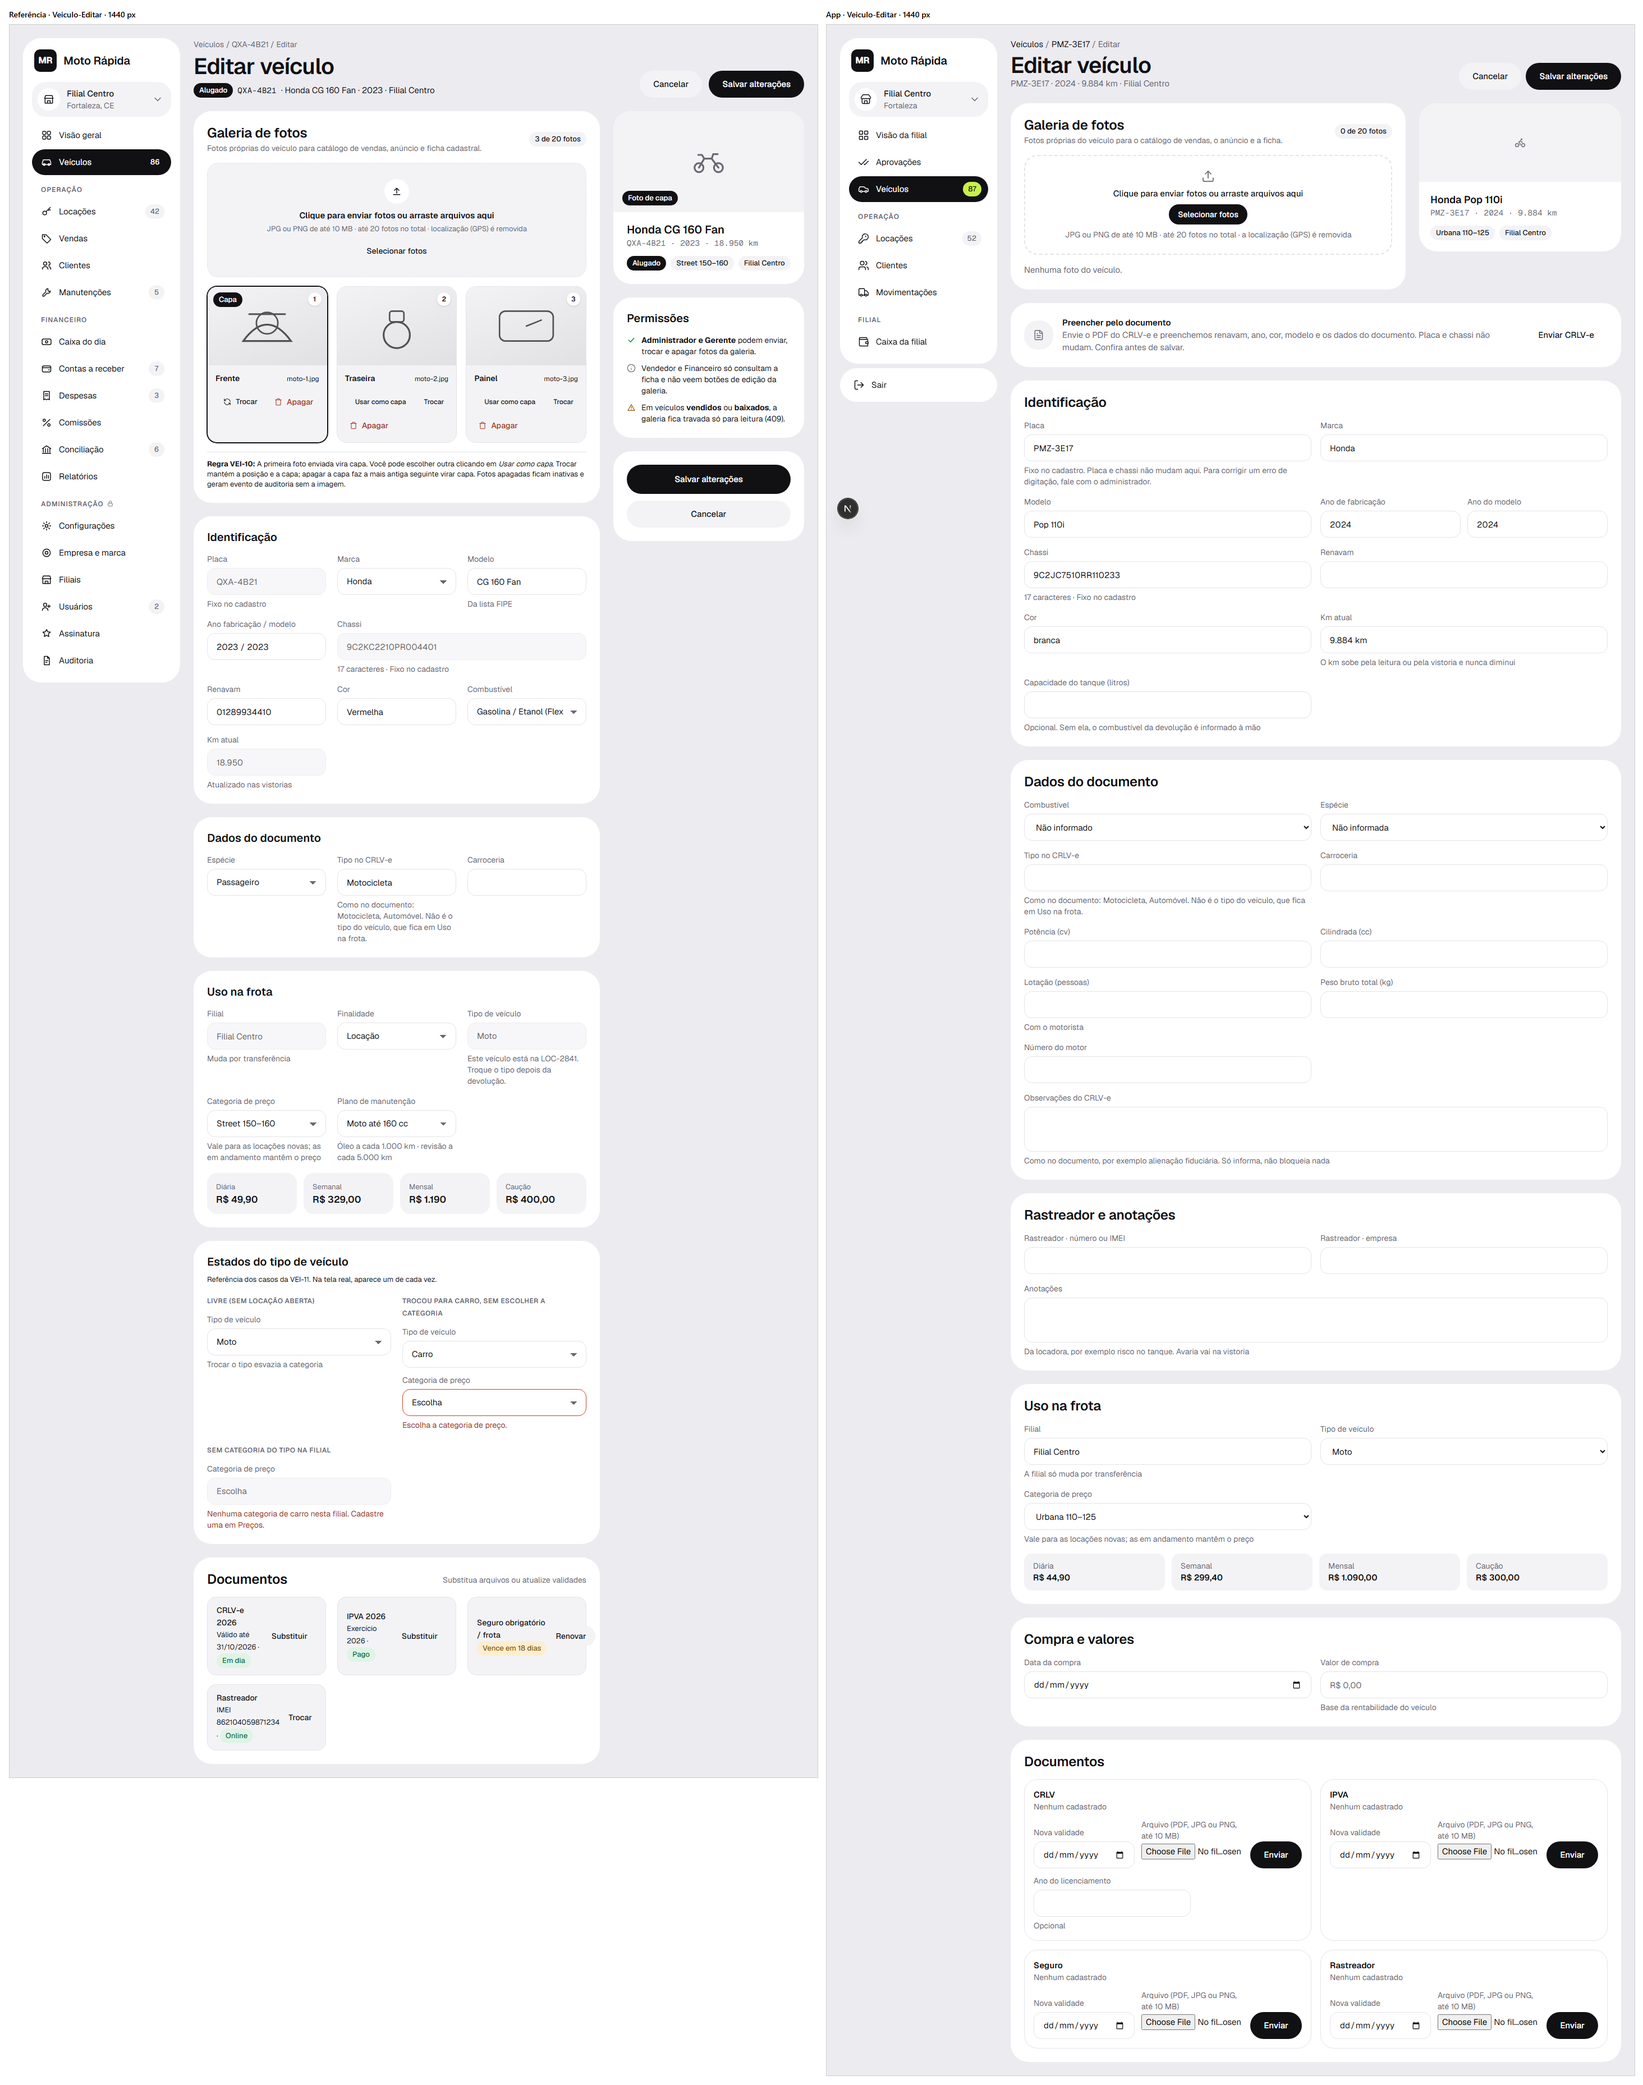
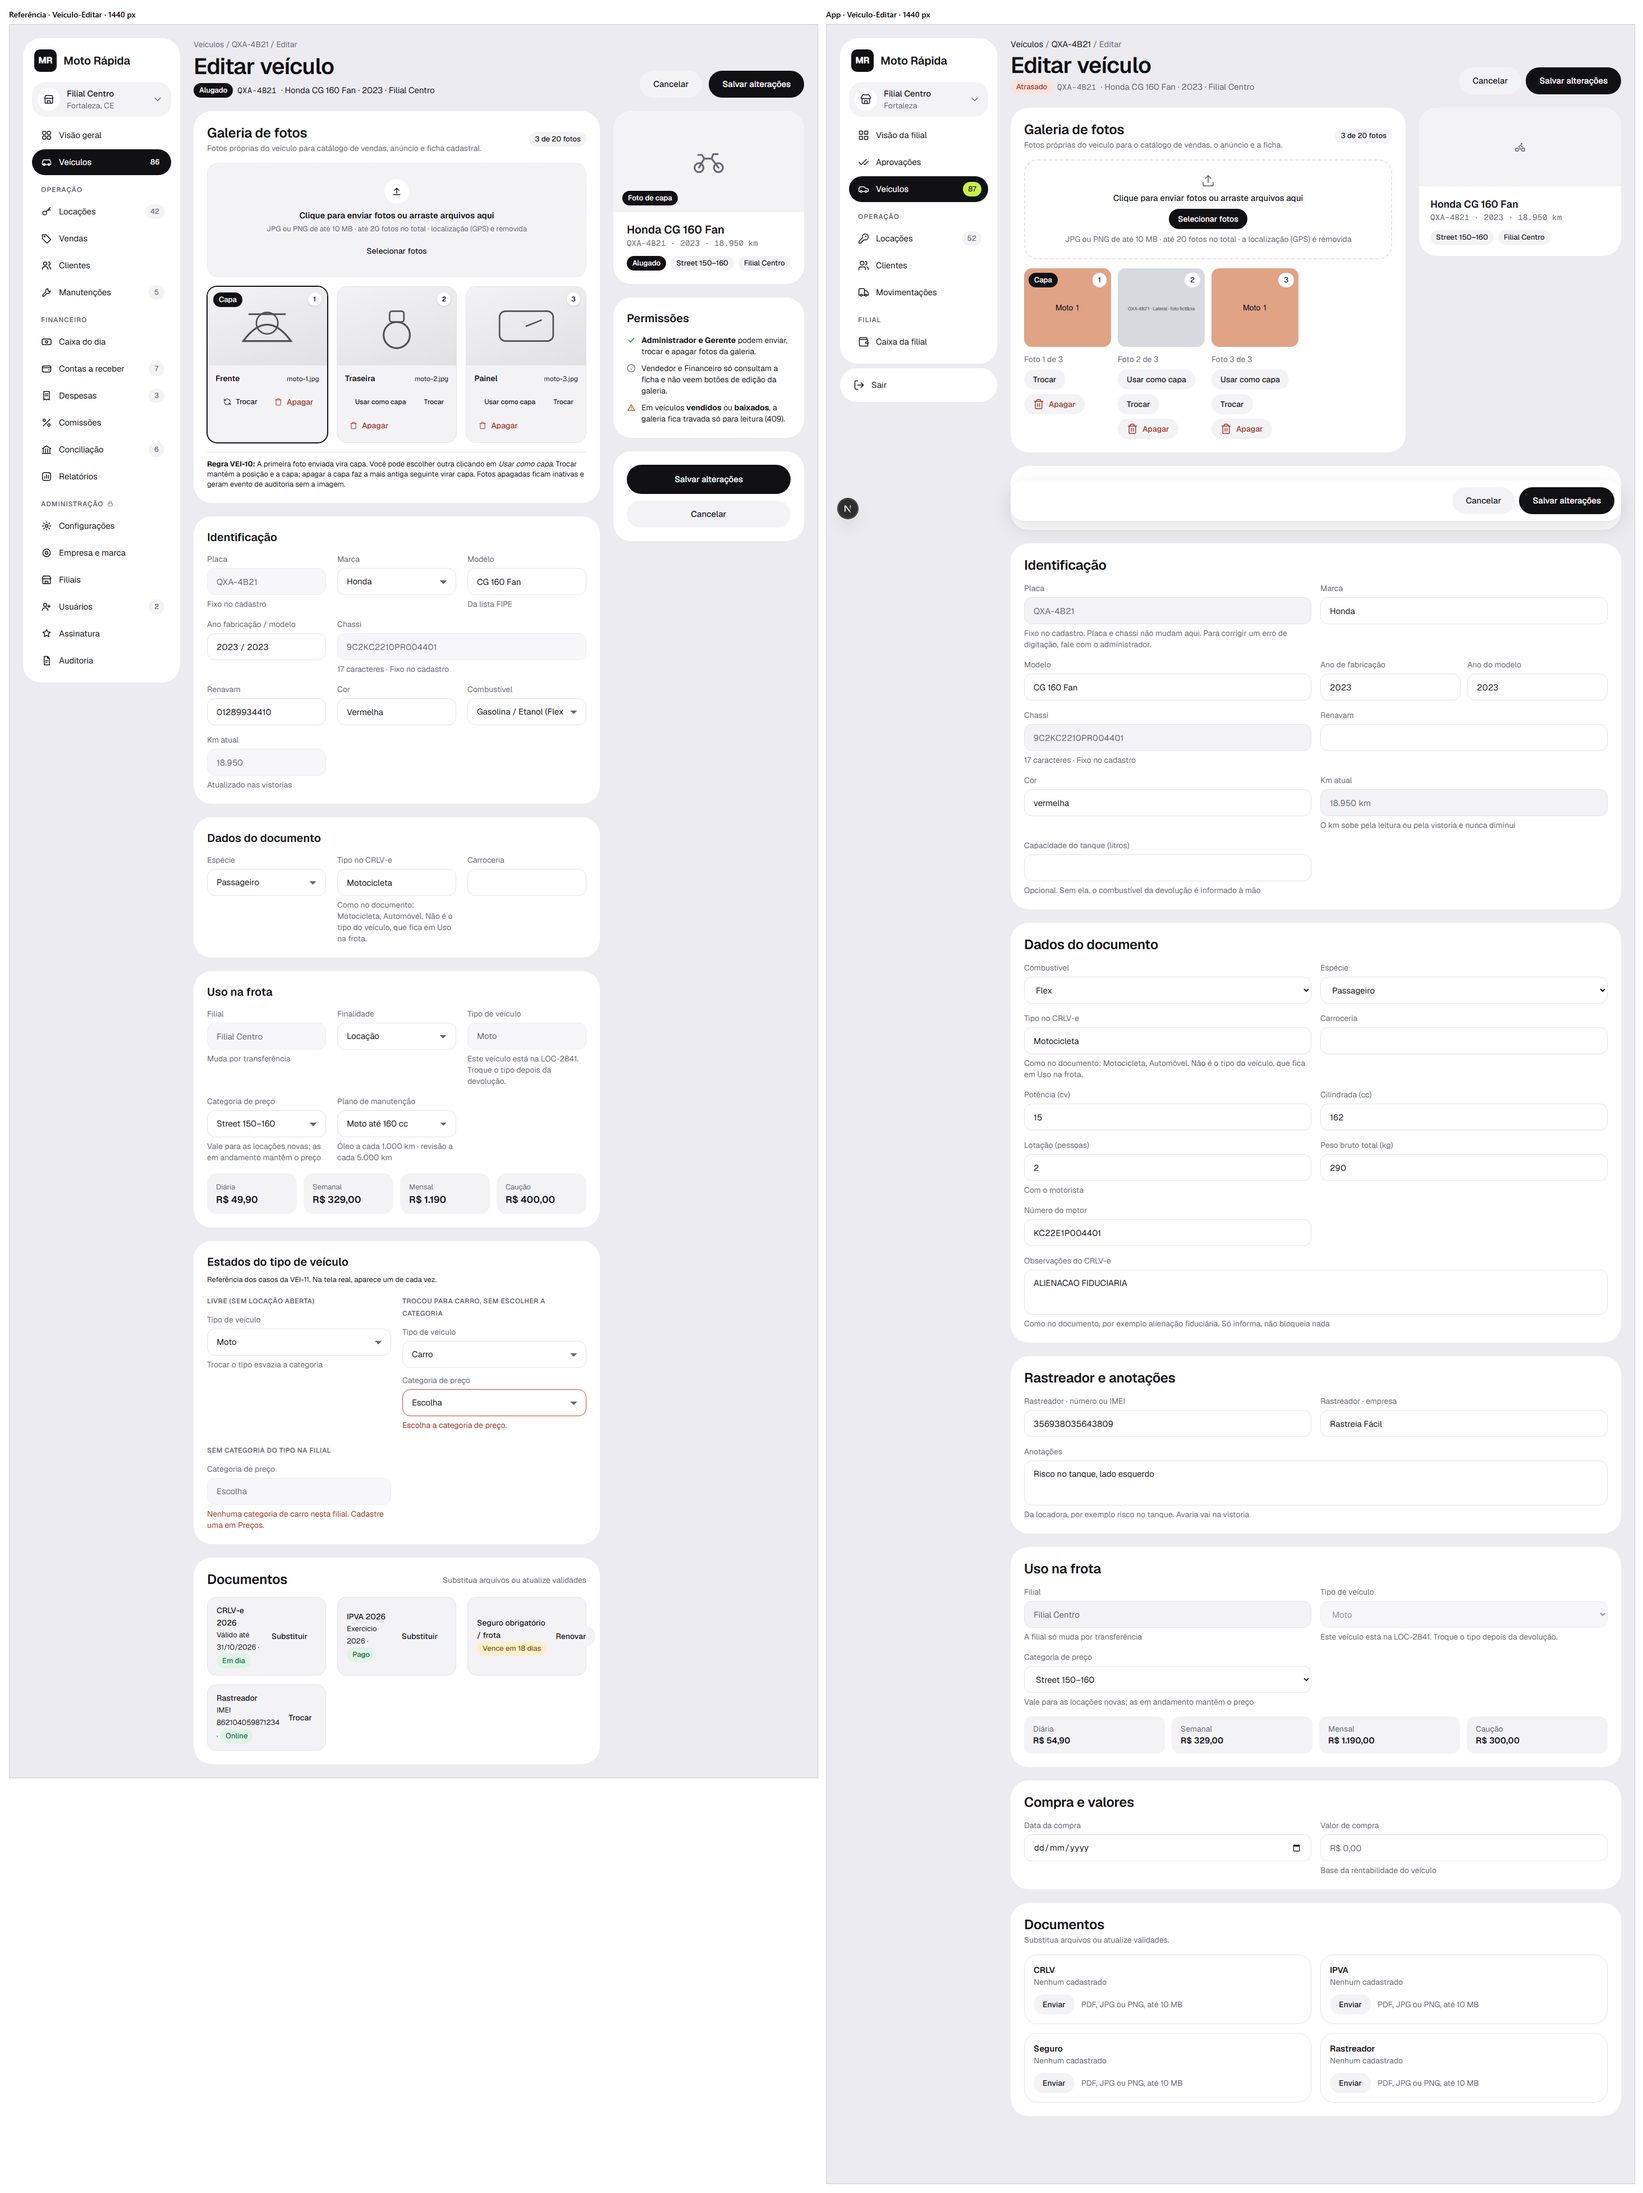
fix(veiculos): documentos em cartão sem seletor nativo, campos travados, selo no cabeçalho e salvar no pé [VEI-01] [T-448]

diff --git a/frontend/src/components/frota/DocumentosDoVeiculo.tsx b/frontend/src/components/frota/DocumentosDoVeiculo.tsx
@@ -31,7 +31,9 @@ function SituacaoDoDocumento({ d }: { d: DocumentoVeiculo }) {
 
 function Linha({ id, tipo, rotulo, atual }: { id: number; tipo: string; rotulo: string; atual?: DocumentoVeiculo }) {
   const cliente = useQueryClient();
-  const arquivo = useRef<HTMLInputElement>(null);
+  const seletor = useRef<HTMLInputElement>(null);
+  // O seletor nativo do navegador fica escondido atrás do botão (o texto dele sai no idioma do navegador).
+  const [arquivo, setArquivo] = useState<File | null>(null);
   const [validade, setValidade] = useState("");
   const [exercicio, setExercicio] = useState("");
   const [erro, setErro] = useState<string | null>(null);
@@ -39,26 +41,38 @@ function Linha({ id, tipo, rotulo, atual }: { id: number; tipo: string; rotulo: 
   const [feito, setFeito] = useState(false);
 
   const enviar = useMutation({
-    mutationFn: () => {
-      const f = arquivo.current?.files?.[0];
-      return veiculos.enviarDocumento(id, { tipo, validade, exercicio: tipo === "crlv" ? exercicio : undefined, arquivo: f });
-    },
+    mutationFn: () => veiculos.enviarDocumento(id, { tipo, validade, exercicio: tipo === "crlv" ? exercicio : undefined, arquivo: arquivo ?? undefined }),
     onSuccess: async () => {
       setFeito(true);
-      setValidade("");
-      setExercicio("");
-      if (arquivo.current) arquivo.current.value = "";
+      limpar();
       await Promise.all([cliente.invalidateQueries({ queryKey: ["veiculo", id, "documentos"] }), cliente.invalidateQueries({ queryKey: ["veiculo", id] }), cliente.invalidateQueries({ queryKey: ["veiculos"] })]);
     },
   });
 
-  function substituir() {
+  function limpar() {
+    setArquivo(null);
+    setValidade("");
+    setExercicio("");
     setErro(null);
     setErroValidade(undefined);
+    if (seletor.current) seletor.current.value = "";
+  }
+
+  function escolheu(f: File | undefined) {
     setFeito(false);
-    const f = arquivo.current?.files?.[0];
+    setErro(null);
+    if (!f) return;
+    if (f.size > LIMITE_MB * 1024 * 1024) {
+      if (seletor.current) seletor.current.value = "";
+      return setErro(`O arquivo passa de ${LIMITE_MB} MB.`);
+    }
+    setArquivo(f);
+  }
+
+  function confirmar() {
+    setErro(null);
+    setErroValidade(undefined);
     if (!validade) return setErroValidade("Informe a validade");
-    if (f && f.size > LIMITE_MB * 1024 * 1024) return setErro(`O arquivo passa de ${LIMITE_MB} MB.`);
     enviar.mutate(undefined, {
       onError: (e) => {
         if (e instanceof ErroApi && e.campos?.validade) setErroValidade(e.campos.validade);
@@ -79,17 +93,29 @@ function Linha({ id, tipo, rotulo, atual }: { id: number; tipo: string; rotulo: 
           {atual && <AbrirDocumento d={atual} />}
         </div>
       </div>
-      <div className="grid min-w-0 gap-3 md:grid-cols-[180px_minmax(0,1fr)_auto] md:items-end [&>*]:min-w-0">
-        <TextField cheio mono type="date" rotulo="Nova validade" value={validade} onChange={(e) => setValidade(e.target.value)} erro={erroValidade} />
-        <label className="flex min-w-0 flex-col gap-1 text-body">
-          <span className="text-caption text-ink-muted">Arquivo (PDF, JPG ou PNG, até {LIMITE_MB} MB)</span>
-          <input ref={arquivo} type="file" accept={ACEITOS} className="min-h-[44px] w-full min-w-0 max-w-full text-body" />
-        </label>
-        <button type="button" disabled={enviar.isPending} onClick={substituir} className="wl-btn wl-btn--solid min-h-[44px] w-full md:w-auto">
-          {enviar.isPending ? "Enviando…" : atual ? "Substituir" : "Enviar"}
-        </button>
-      </div>
-      {tipo === "crlv" && <TextField mono rotulo="Ano do licenciamento" inputMode="numeric" maxLength={4} dica="Opcional" value={exercicio} onChange={(e) => setExercicio(e.target.value)} />}
+      <input ref={seletor} type="file" accept={ACEITOS} className="hidden" aria-label={`Escolher o arquivo de ${rotulo}`} onChange={(e) => escolheu(e.target.files?.[0])} />
+      {!arquivo ? (
+        <div className="flex flex-wrap items-center gap-3">
+          <button type="button" onClick={() => seletor.current?.click()} className="wl-btn wl-btn--quiet wl-btn--sm">
+            {atual ? "Substituir" : "Enviar"}
+          </button>
+          <span className="text-caption text-ink-muted">PDF, JPG ou PNG, até {LIMITE_MB} MB</span>
+        </div>
+      ) : (
+        <div className="flex min-w-0 flex-col gap-3">
+          <span className="wl-mono min-w-0 break-all text-caption">{arquivo.name}</span>
+          <TextField cheio mono type="date" rotulo="Nova validade" value={validade} onChange={(e) => setValidade(e.target.value)} erro={erroValidade} />
+          {tipo === "crlv" && <TextField cheio mono rotulo="Ano do licenciamento" inputMode="numeric" maxLength={4} dica="Opcional" value={exercicio} onChange={(e) => setExercicio(e.target.value)} />}
+          <div className="flex flex-wrap gap-2">
+            <button type="button" disabled={enviar.isPending} onClick={confirmar} className="wl-btn wl-btn--solid wl-btn--sm">
+              {enviar.isPending ? "Enviando…" : atual ? "Substituir documento" : "Enviar documento"}
+            </button>
+            <button type="button" disabled={enviar.isPending} onClick={limpar} className="wl-btn wl-btn--quiet wl-btn--sm">
+              Cancelar
+            </button>
+          </div>
+        </div>
+      )}
       {erro && (
         <p role="alert" className="m-0 text-body text-critical-ink">
           {erro}
@@ -108,7 +134,7 @@ function Linha({ id, tipo, rotulo, atual }: { id: number; tipo: string; rotulo: 
 export function DocumentosDoVeiculo({ id }: { id: number }) {
   const docs = useQuery({ queryKey: ["veiculo", id, "documentos"], queryFn: () => veiculos.documentos(id) });
   return (
-    <Panel titulo="Documentos">
+    <Panel titulo="Documentos" subtitulo="Substitua arquivos ou atualize validades.">
       {docs.isError && (
         <p role="alert" className="text-body">
           {mensagemDoErro(docs.error)}

diff --git a/frontend/src/components/frota/EditarVeiculo.tsx b/frontend/src/components/frota/EditarVeiculo.tsx
@@ -7,11 +7,12 @@ import Link from "next/link";
 import { useRouter } from "next/navigation";
 import { useRef, useState } from "react";
 import { useForm, type FieldPath } from "react-hook-form";
-import { Icone, Panel, SelectField, TextField } from "@/design-system";
+import { Icone, Panel, SelectField, StatusBadge, TextField } from "@/design-system";
 import { ErroApi, veiculos, type CategoriaVeiculo, type ModeloDoCatalogo, type TipoVeiculo, type VeiculoDetalhe } from "@/lib/api";
 import { mensagemDoErro } from "@/lib/erros";
 import { km, placa as placaComHifen } from "@/lib/formatos";
 import { useSessao } from "@/lib/sessao";
+import { tomDoStatus } from "@/lib/tom";
 import { CAMPOS_VEI_09, categoriaAoTrocarTipo, esquemaVeiculo, NOME_DO_CAMPO_DA_API, OPCOES_DE_TIPO, paraCorpoEdicao, semCategoriaDoTipo, temMotorEObservacoes, valoresDaLeitura, valoresDoVeiculo, type CampoLido, type CategoriasPorTipo, type ValoresVeiculo } from "@/lib/veiculos";
 import { CamposDoDocumento } from "./CamposDoDocumento";
 import { CorrigirIdentificacao } from "./CorrigirIdentificacao";
@@ -151,7 +152,13 @@ function Formulario({ ficha }: { ficha: VeiculoDetalhe }) {
             / Editar
           </nav>
           <h1 className="text-title md:mt-1 md:text-display">Editar veículo</h1>
-          <p className="m-0 text-body text-ink-muted">{resumo} · {ficha.filial.nome}</p>
+          <div className="mt-1 flex flex-wrap items-center gap-2 text-body text-ink-muted">
+            <StatusBadge tom={tomDoStatus(ficha.situacao.tom)} compacto>
+              {ficha.situacao.rotulo}
+            </StatusBadge>
+            <span className="wl-mono">{placaComHifen(ficha.placa)}</span>
+            <span>· {[v.marca, v.modelo].filter(Boolean).join(" ")} · {v.ano_modelo} · {ficha.filial.nome}</span>
+          </div>
         </div>
         <div className="flex gap-2">
           <Link href={`/veiculos/${ficha.id}`} className="wl-btn wl-btn--quiet">
@@ -252,6 +259,16 @@ function Formulario({ ficha }: { ficha: VeiculoDetalhe }) {
       </form>
 
       <DocumentosDoVeiculo id={ficha.id} />
+
+      {/* A página é longa: Salvar também no pé, fixo ao rolar (no celular fica acima da barra de navegação). */}
+      <div className="sticky bottom-[88px] z-20 flex justify-end gap-2 rounded-lg bg-surface p-3 shadow-pop md:bottom-4">
+        <Link href={`/veiculos/${ficha.id}`} className="wl-btn wl-btn--quiet">
+          Cancelar
+        </Link>
+        <button type="submit" form="editar-veiculo" disabled={ocupado} className="wl-btn wl-btn--solid">
+          {ocupado ? "Salvando…" : "Salvar alterações"}
+        </button>
+      </div>
       {/* Fora do form: Enter nos campos do diálogo não pode salvar a edição. */}
       {corrigindo && <CorrigirIdentificacao ficha={ficha} aoFechar={() => setCorrigindo(false)} aoConcluir={setAviso} />}
     </div>

diff --git a/frontend/src/components/frota/DocumentosDoVeiculo.test.tsx b/frontend/src/components/frota/DocumentosDoVeiculo.test.tsx
@@ -33,7 +33,9 @@ describe("documentos do veículo, administrador e gerente", () => {
     for (const t of ["CRLV", "IPVA", "Seguro", "Rastreador"]) expect(h).toContain(t);
     expect(h).toContain("Substituir");
     expect(h).toContain('type="file"');
-    expect(h).toContain("Arquivo (PDF, JPG ou PNG, até 10 MB)");
+    expect(h).toContain("PDF, JPG ou PNG, até 10 MB");
+    expect(h).toContain("hidden");
+    expect(h).not.toContain("Nova validade");
     expect(h).toContain("Abrir CRLV");
     expect(h).toContain("Sem arquivo");
   });
@@ -116,7 +118,7 @@ describe("correções da conferência (T-428)", () => {
     expect(celular.match(/Ver o histórico/g)).toHaveLength(1);
   });
 
-  it("D4: o campo, o arquivo e o botão do editar cabem no cartão (min-w-0, botão de largura cheia no celular)", async () => {
+  it("T-448: o seletor nativo fica escondido atrás de Substituir/Enviar e o cartão traz o subtítulo e o selo da situação", async () => {
     const cliente = new QueryClient();
     cliente.setQueryData(["veiculo", 501, "documentos"], await veiculos.documentos(501));
     const h = renderToStaticMarkup(
@@ -124,8 +126,9 @@ describe("correções da conferência (T-428)", () => {
         <DocumentosDoVeiculo id={501} />
       </QueryClientProvider>,
     );
-    expect(h).toContain("]:min-w-0");
-    expect(h).toContain("w-full min-w-0 max-w-full");
-    expect(h).toContain("w-full md:w-auto");
+    expect(h).toMatch(/<input[^>]*type="file"[^>]*class="hidden"|<input[^>]*class="hidden"[^>]*type="file"/);
+    expect(h).toContain("Substitua arquivos ou atualize validades.");
+    expect(h).toMatch(/Em dia|Vence em|Vencido/);
+    expect(h).not.toContain("Choose File");
   });
 });

diff --git a/frontend/src/components/frota/EditarVeiculoReferencia.test.tsx b/frontend/src/components/frota/EditarVeiculoReferencia.test.tsx
@@ -67,4 +67,14 @@ describe("editar veículo na referência (T-448)", () => {
     expect(t).toContain("Tipo no CRLV-e");
     expect(t).toContain("Não é o tipo do veículo, que fica em Uso na frota.");
   });
+
+  it("test_vei_01_editar_selo_da_situacao_no_cabecalho_e_salvar_tambem_no_pe", async () => {
+    const ficha = await veiculos.obter(501);
+    const html = await pagina(501);
+    expect(texto(html)).toContain(ficha.situacao.rotulo);
+    ordem(texto(html), ["Editar veículo", ficha.situacao.rotulo, "QXA-4B21"]);
+    // Dois botões de salvar ligados ao mesmo formulário: cabeçalho e pé fixo.
+    expect(html.match(/form="editar-veiculo"[^>]*>(?:<!-- -->)?Salvar alterações/g)).toHaveLength(2);
+    expect(html).toContain("sticky bottom-");
+  });
 });

diff --git a/frontend/src/design-system/componentes.css b/frontend/src/design-system/componentes.css
@@ -85,6 +85,7 @@
 .wl-field { display: flex; flex-direction: column; gap: 6px; width: 280px; }
 .wl-field__label { color: var(--ink-muted); font-size: 14px; line-height: 20px; }
 .wl-input { height: 48px; box-sizing: border-box; padding: 0 16px; border: 1px solid var(--line); border-radius: var(--radius-md); background: var(--surface); color: var(--ink); font: inherit; font-size: 15px; }
+.wl-input:disabled, .wl-input[readonly] { background: var(--surface-sunken); color: var(--ink-muted); }
 .wl-input::placeholder { color: var(--ink-muted); }
 .wl-field--error .wl-input { border-color: var(--critical); }
 .wl-field__hint { font-size: 14px; line-height: 20px; color: var(--ink-muted); }

diff --git a/tarefas/handoffs/anexos/T-448/resumo.md b/tarefas/handoffs/anexos/T-448/resumo.md
@@ -1,6 +1,6 @@
 # Conferência lado a lado (T-425)
 
-Gerada por `npm run conferencia` em 2026-11-10 21:19 UTC, com o seed em 07 out 2026. Esquerda: tela de referência. Direita: página do app.
+Gerada por `npm run conferencia` em 2026-11-10 21:25 UTC, com o seed em 07 out 2026. Esquerda: tela de referência. Direita: página do app.
 Sem comparação por pixel. A coluna "Medido" traz só o que dá para medir: respostas de erro da API, erro de console e rolagem lateral. A diferença visual quem aponta é a revisão do design-system.
 
 | Tela | Largura | Imagem | Medido |
